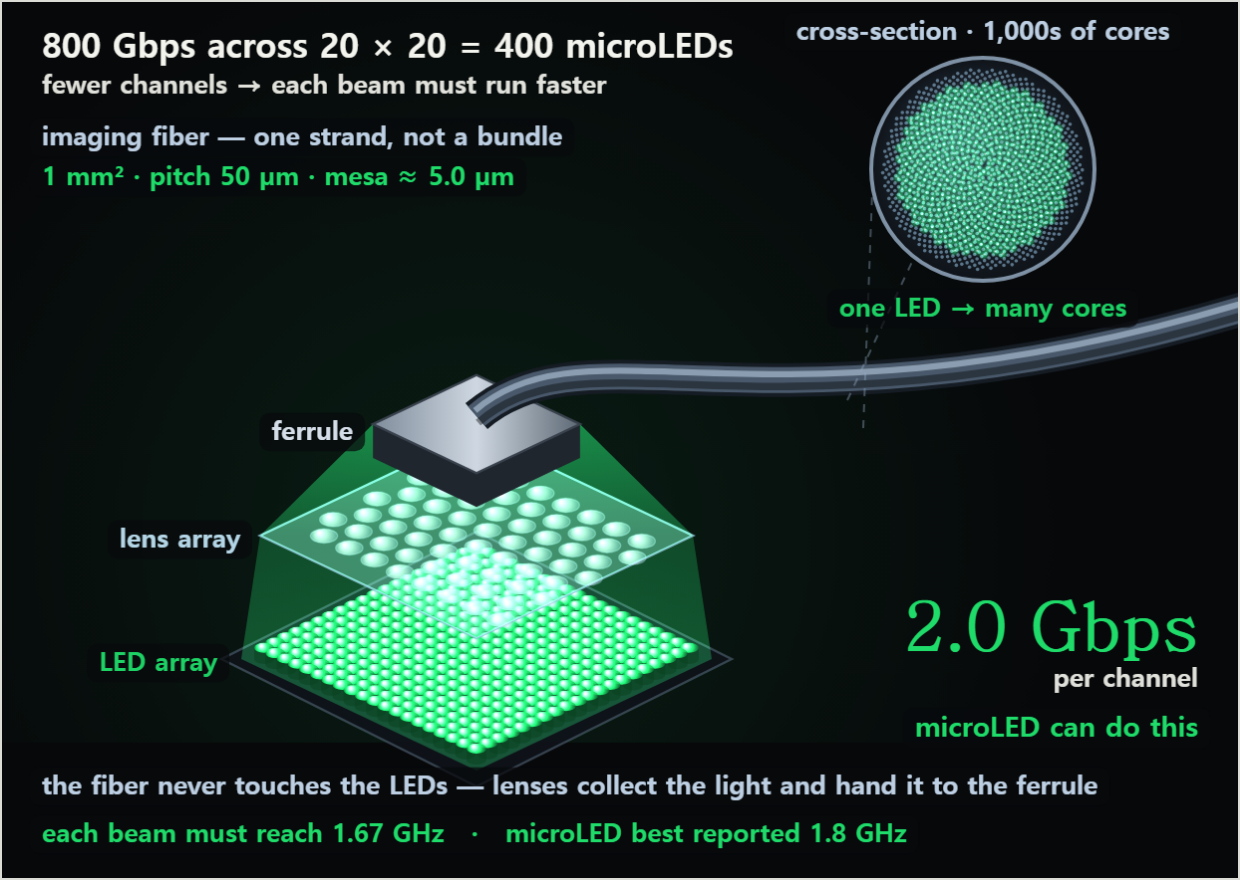
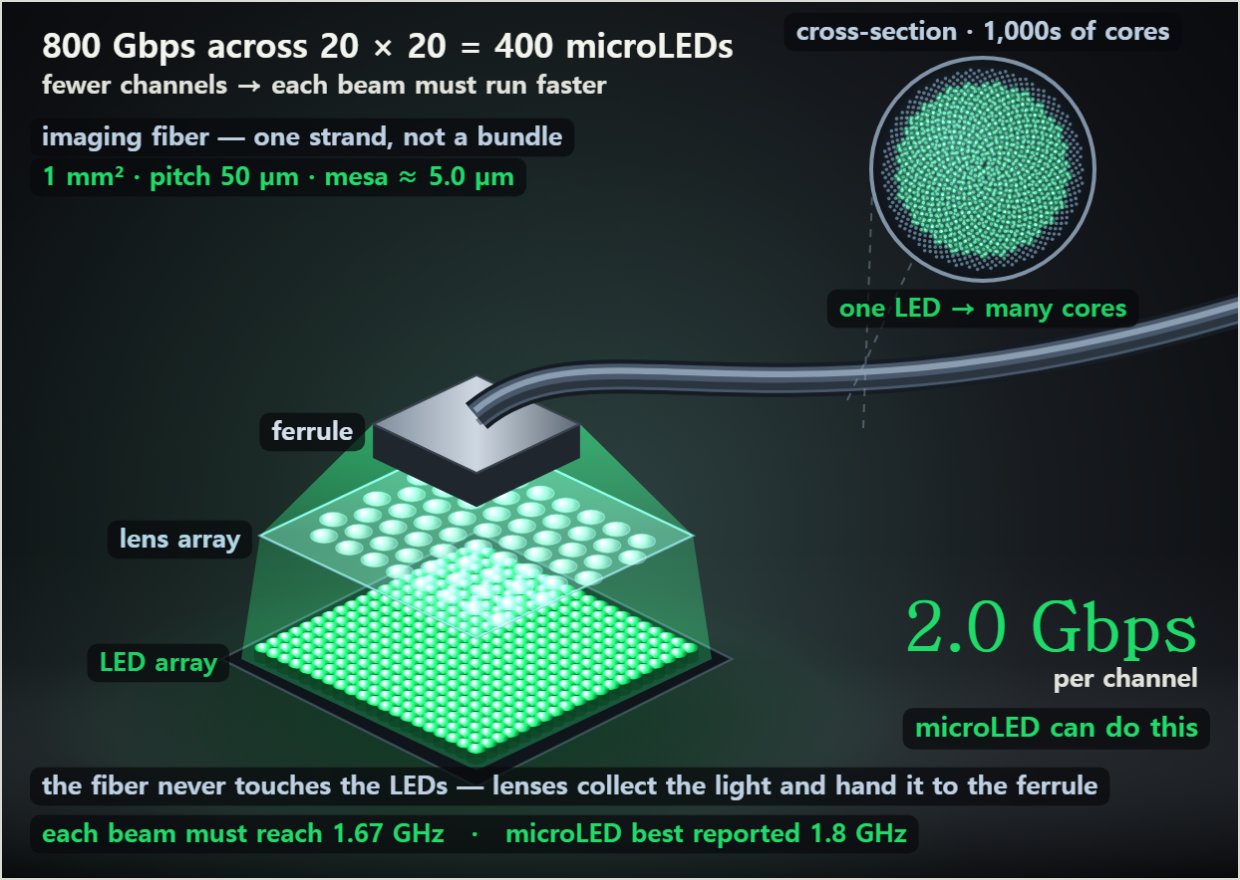
feat(제8호 표지): 스튜디오 배경(대표 A안) — 단색 검정 대신 빛 번짐·비네팅·바닥 그림자·반사, 표지에만
계산·구도 그대로, 기사 본문 시뮬은 종전 검정. 그림 영역 높이까지만 칠하던 배경 번짐을 표지에선 끝까지
칠해 경계선 제거. 카드 5장(표지·세로 한영·가로 한영) 재촬영.

Changed region(s): [[0.0, 0.1841, 1.0, 0.9818]]

diff --git a/src/lib/simulations/microled-wide-and-slow-3d-demo.js b/src/lib/simulations/microled-wide-and-slow-3d-demo.js
@@ -173,11 +173,49 @@ export function mount(container, params = {}) {
       ctx.closePath(); ctx.fill();
     };
 
+    // ── 표지 전용 스튜디오 배경(2026-10-04 대표 A안). 단색 검정은 「그래픽」으로 읽히고 실물 사진처럼
+    // 보이지 않는다. 제품 사진처럼 물체 뒤 은은한 빛 번짐 + 가장자리 어둡게 + 바닥 그림자·반사를 깐다.
+    // 계산·구도는 건드리지 않는다. 기사 본문(COVER=false)은 종전 검정 그대로.
+    if (COVER) {
+      const sx = acx + 70, sy = lensY - 10;
+      const spot = ctx.createRadialGradient(sx, sy, 20, sx, sy, Math.max(W, H) * 0.78);
+      spot.addColorStop(0, '#2b3038');
+      spot.addColorStop(0.35, '#1a1d22');
+      spot.addColorStop(0.75, '#0c0e11');
+      spot.addColorStop(1, '#060708');
+      ctx.fillStyle = spot;
+      ctx.fillRect(0, 0, W, H);
+      // 바닥: 판 아래로 아주 옅은 밝은 띠가 앞쪽으로 깔린다(스튜디오 스윕)
+      const floor = ctx.createLinearGradient(0, acy - ahd, 0, H);
+      floor.addColorStop(0, 'rgba(255,255,255,0)');
+      floor.addColorStop(0.35, 'rgba(200,215,230,0.035)');
+      floor.addColorStop(1, 'rgba(0,0,0,0.35)');
+      ctx.fillStyle = floor;
+      ctx.fillRect(0, acy - ahd, W, H - (acy - ahd));
+      // 접지 그림자: 판 바로 아래 타원
+      ctx.save();
+      ctx.translate(acx, acy + ahd * 0.55);
+      ctx.scale(1, 0.32);
+      const sh = ctx.createRadialGradient(0, 0, 10, 0, 0, ahw * 1.55);
+      sh.addColorStop(0, 'rgba(0,0,0,0.75)');
+      sh.addColorStop(0.6, 'rgba(0,0,0,0.35)');
+      sh.addColorStop(1, 'rgba(0,0,0,0)');
+      ctx.fillStyle = sh;
+      ctx.beginPath(); ctx.arc(0, 0, ahw * 1.55, 0, Math.PI * 2); ctx.fill();
+      // 바닥 반사: 발광이 바닥에 번진 옅은 초록
+      const rf = ctx.createRadialGradient(0, 0, 10, 0, 0, ahw * 1.9);
+      rf.addColorStop(0, hexA(col, 0.16));
+      rf.addColorStop(1, hexA(col, 0));
+      ctx.fillStyle = rf;
+      ctx.beginPath(); ctx.arc(0, 0, ahw * 1.9, 0, Math.PI * 2); ctx.fill();
+      ctx.restore();
+    }
+
     const bgGlow = ctx.createRadialGradient(acx, lensY, 10, acx, lensY, 300);
     bgGlow.addColorStop(0, hexA(col, 0.1));
     bgGlow.addColorStop(1, hexA(col, 0));
     ctx.fillStyle = bgGlow;
-    ctx.fillRect(0, 0, W, SCENE_H);
+    ctx.fillRect(0, 0, W, COVER ? H : SCENE_H); // 표지는 끝까지 — 스튜디오 배경 위에서 경계선이 드러났다
 
     // ── 이미터·스팟 좌표
     const cores = [], emits = [];
